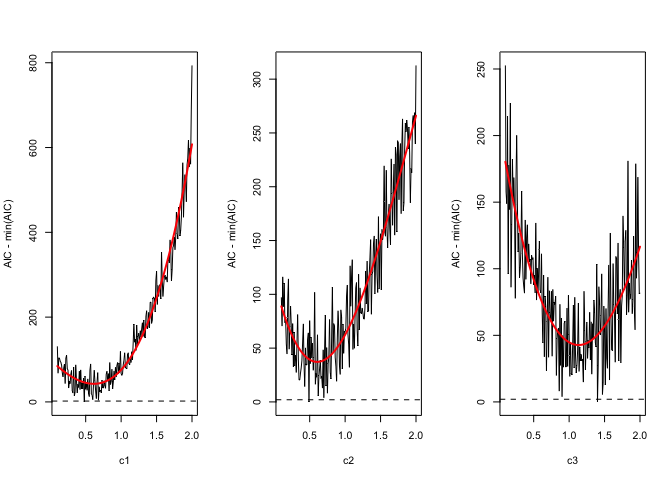
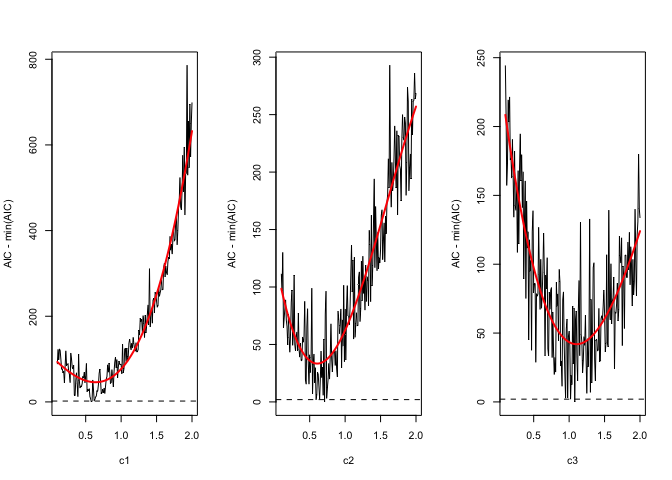
fixing readme layout error

diff --git a/Readme.md b/Readme.md
@@ -14,6 +14,7 @@ HumPlant R package
     abundances.](#simulate-an-interaction-network-based-on-the-species-abundances)
   - [Combining models based on abundances and
     morphologies](#combining-models-based-on-abundances-and-morphologies)
+- [Additional ecological models](#additional-ecological-models)
 - [Statistical analyses](#statistical-analyses)
   - [Model fitting with single predictor
     versions](#model-fitting-with-single-predictor-versions)
@@ -213,7 +214,7 @@ sim_net_morph=simulate_ZI_matrix(
 ```
 
     ##                   Nestedness Complementary specialization 
-    ##                   23.5254456                    0.2932923
+    ##                   23.5254456                    0.2932624
 
 Now, let’s take a look at the simulated network. Does the structure
 coincide with your expectations and what could be improved?
@@ -329,10 +330,13 @@ sim_net_morph_abund=simulate_ZI_matrix(
 plotweb(sim_net_morph_abund,method="normal",empty = F)
 ```
 
-![](Readme_files/figure-gfm/unnamed-chunk-16-1.png)<!-- --> \##
-Additional ecological models Below I compile additional ecological
-models suggested by you. The first is a suggestion inspired by one of
-our discussions. I also include some used in previous papers
+![](Readme_files/figure-gfm/unnamed-chunk-16-1.png)<!-- -->
+
+## Additional ecological models
+
+Below I compile additional ecological models suggested by you. The first
+is a suggestion inspired by one of our discussions. I also include some
+used in previous papers
 
 ``` r
 # plants become increasingly attractive if they have few morphologically mathing partners
@@ -484,12 +488,12 @@ head(result)
 ```
 
     ##        AIC tongue_matching tongue_barrier   c1   c2   c3
-    ## 2 2215.511             0.5            1.8 1.92 0.86 1.83
-    ## 3  951.759             0.5            1.8 0.41 0.43 1.42
-    ## 4 3459.941             0.5            1.8 0.37 1.95 1.59
-    ## 5 1182.443             0.5            1.8 0.45 1.00 0.68
-    ## 6 1149.605             0.5            1.8 0.97 1.02 0.43
-    ## 7 2128.593             0.5            1.8 0.26 1.20 1.96
+    ## 2 1272.510             0.5            1.8 0.86 1.03 1.75
+    ## 3 1341.077             0.5            1.8 1.20 1.35 0.10
+    ## 4 1699.299             0.5            1.8 1.83 1.45 0.58
+    ## 5 1605.996             0.5            1.8 1.08 0.21 0.48
+    ## 6 2068.888             0.5            1.8 1.24 1.86 1.09
+    ## 7 1134.257             0.5            1.8 0.13 0.15 0.14
 
 Now, we can visualise the best-fitting models and determine the optimal
 tongue lengths and c-values, if they exist. Since the previous function
